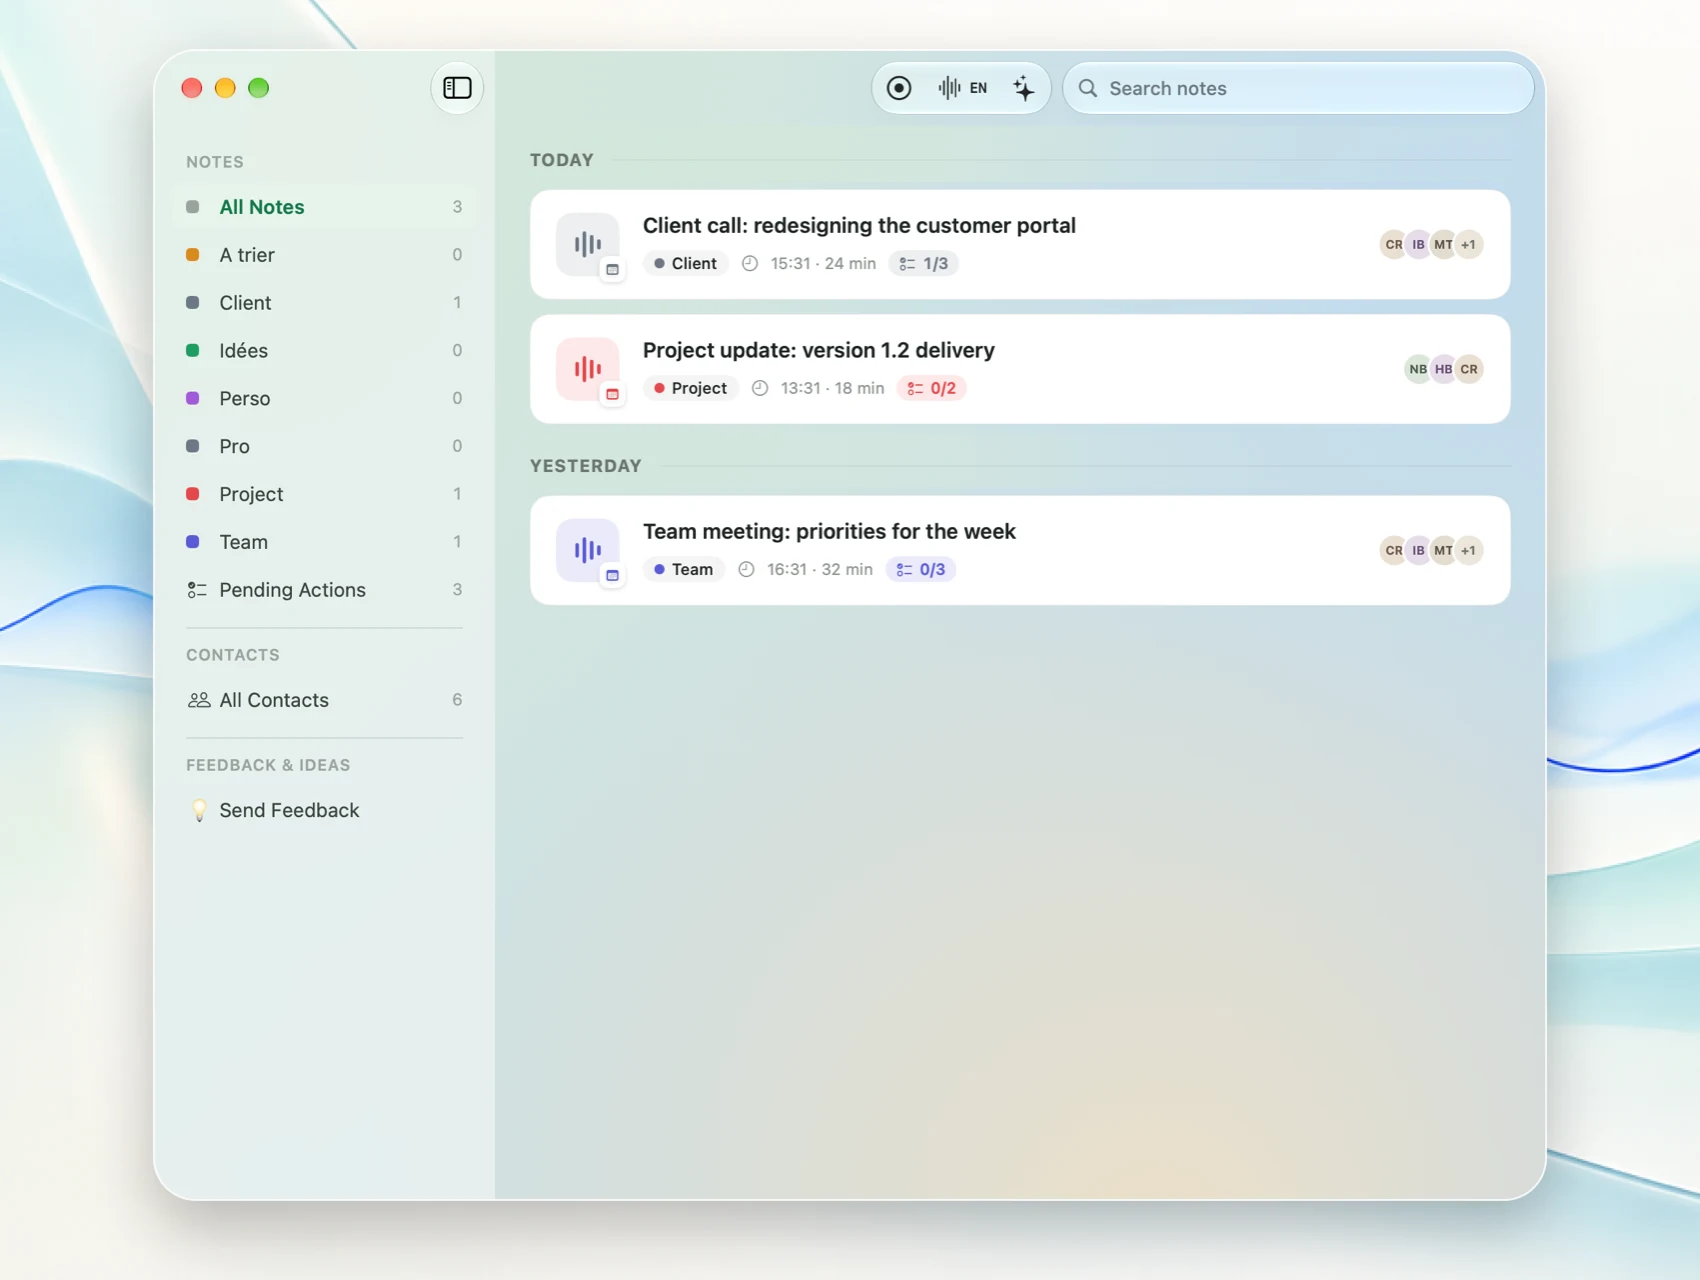
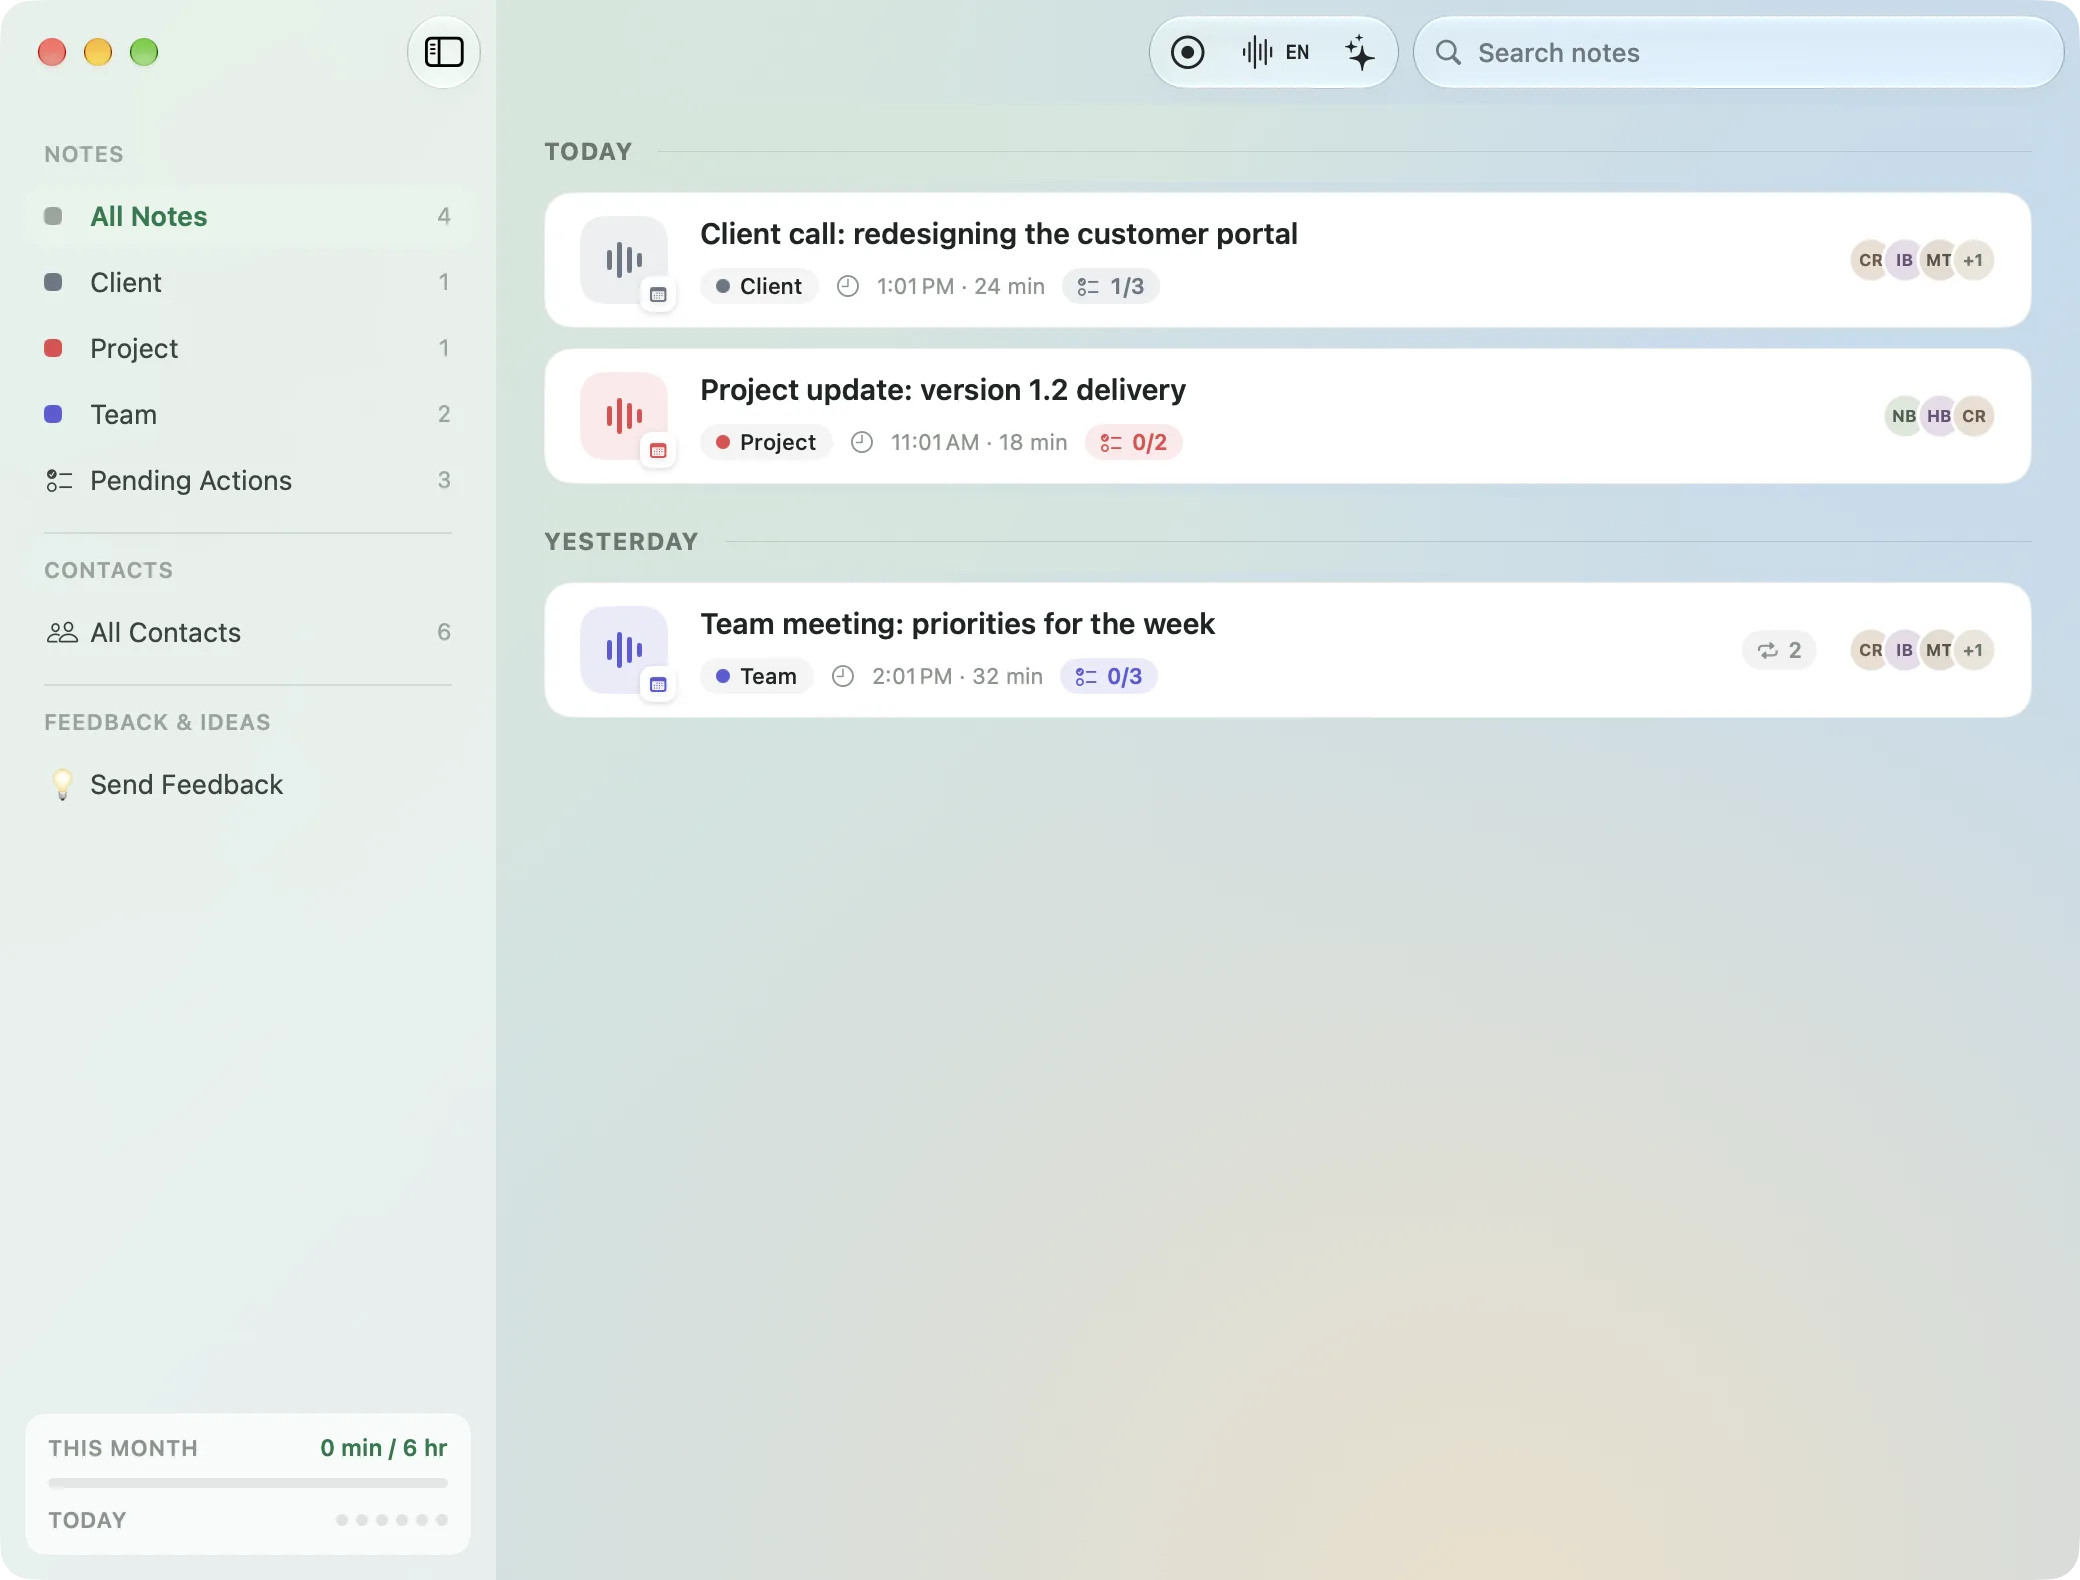
feat(site): refresh marketing visuals

diff --git a/voiceovya/index.html b/voiceovya/index.html
@@ -80,8 +80,11 @@ header{position:relative;z-index:1;background:rgba(244,248,246,.75);backdrop-fil
 .assistant-capture .ui-shot{margin:0 auto}
 .translation-capture{padding:72px 0;background:var(--bg-clear)}
 .translation-capture .capture-head{margin-top:0}
+.translation-capture .ui-shot{max-width:480px}
 .ai-actions-capture{padding:72px 0;background:#fff}
 .ai-actions-capture .capture-head{margin-top:0}
+.ai-actions-capture .ui-shot{max-width:756px}
+.calendar-capture{padding:72px 0;background:var(--accent-soft)}
 .sr-only{position:absolute!important;width:1px!important;height:1px!important;padding:0!important;margin:-1px!important;overflow:hidden!important;clip:rect(0,0,0,0)!important;white-space:nowrap!important;border:0!important}
 
 /* ---- Product journey ---- */
@@ -189,6 +192,7 @@ section{padding:72px 0}
 .mopt .mb{font-size:11px;font-weight:600;padding:3px 9px;border-radius:20px;flex:none}
 .mopt .mb.local{background:var(--accent-soft);color:var(--accent-deep)}
 .mopt .mb.online{background:rgba(0,0,0,.06);color:var(--text-medium)}
+.mopt .mb.experimental{background:#fff0d8;color:#a45d00}
 .pnote{margin-top:12px;font-size:12.5px;color:var(--text-medium)}
 
 /* ---- Contact band ---- */
@@ -330,7 +334,7 @@ footer a:hover{color:var(--text-dark)}
       <p data-i18n="capture.library.p">Classez vos notes, recherchez un échange et gardez les actions à suivre sous la main.</p>
     </div>
     <figure class="ui-shot">
-      <img src="assets/screenshots/ui/fr/library.webp?v=4" data-ui-shot="library" width="1700" height="1280" loading="eager" alt="Bibliothèque de réunions VoiceOvya" data-alt-fr="Bibliothèque de réunions VoiceOvya" data-alt-en="VoiceOvya meeting library">
+      <img src="assets/screenshots/ui/fr/library.webp?v=6" data-ui-shot="library" width="2080" height="1580" loading="eager" alt="Bibliothèque de réunions VoiceOvya" data-alt-fr="Bibliothèque de réunions VoiceOvya" data-alt-en="VoiceOvya meeting library">
     </figure>
   </div>
 </div>
@@ -412,7 +416,7 @@ footer a:hover{color:var(--text-dark)}
       <p data-i18n="capture.assistant.p">Échangez avec vos notes grâce à l’assistant IA. Pendant ou après la réunion, retrouvez une décision, une action ou une information sans parcourir toute la transcription.</p>
     </div>
     <figure class="ui-shot">
-      <img src="assets/screenshots/ui/fr/assistant.webp?v=4" data-ui-shot="assistant" width="2080" height="1280" loading="lazy" alt="Assistant IA VoiceOvya dans une réunion" data-alt-fr="Assistant IA VoiceOvya dans une réunion" data-alt-en="VoiceOvya AI assistant inside a meeting">
+      <img src="assets/screenshots/ui/fr/assistant.webp?v=6" data-ui-shot="assistant" width="2544" height="1580" loading="lazy" alt="Assistant IA VoiceOvya dans une réunion" data-alt-fr="Assistant IA VoiceOvya dans une réunion" data-alt-en="VoiceOvya AI assistant inside a meeting">
     </figure>
   </div>
 </section>
@@ -424,7 +428,7 @@ footer a:hover{color:var(--text-dark)}
       <p data-i18n="capture.translation.p">Écoutez dans une langue et suivez la traduction au fil de la conversation.</p>
     </div>
     <figure class="ui-shot">
-      <img src="assets/screenshots/ui/fr/translation.webp?v=4" data-ui-shot="translation" width="1880" height="1230" loading="lazy" alt="Traduction en temps réel dans VoiceOvya" data-alt-fr="Traduction en temps réel dans VoiceOvya" data-alt-en="Real-time translation in VoiceOvya">
+      <img src="assets/screenshots/ui/fr/translation.webp?v=6" data-ui-shot="translation" width="840" height="1040" loading="lazy" alt="Traduction en temps réel dans VoiceOvya" data-alt-fr="Traduction en temps réel dans VoiceOvya" data-alt-en="Real-time translation in VoiceOvya">
     </figure>
   </div>
 </section>
@@ -436,57 +440,16 @@ footer a:hover{color:var(--text-dark)}
       <p data-i18n="capture.actions.p">Créez vos actions IA (résumé, devis…) et accédez-y via l’assistant IA, ou générez automatiquement une carte dans le détail de la note.</p>
     </div>
     <figure class="ui-shot">
-      <img src="assets/screenshots/ui/fr/ai-actions.webp?v=4" data-ui-shot="ai-actions" width="1700" height="1270" loading="lazy" alt="Configuration des actions IA dans VoiceOvya" data-alt-fr="Configuration des actions IA dans VoiceOvya" data-alt-en="AI action configuration in VoiceOvya">
+      <img src="assets/screenshots/ui/fr/ai-actions.webp?v=6" data-ui-shot="ai-actions" width="1800" height="1340" loading="lazy" alt="Configuration des actions IA dans VoiceOvya" data-alt-fr="Configuration des actions IA dans VoiceOvya" data-alt-en="AI action configuration in VoiceOvya">
     </figure>
   </div>
 </section>
 
-<section class="story" id="calendar">
-  <div class="story-intro">
-    <span class="kicker" data-i18n="s3.k">Agenda</span>
-    <h2 data-i18n="s3.t">Démarrez au bon moment.</h2>
-    <p data-i18n="s3.p">VoiceOvya s’appuie sur votre agenda pour proposer l’enregistrement au début de la réunion, depuis une notification ou la barre des menus.</p>
-  </div>
+<section class="calendar-capture" id="calendar">
   <div class="wrap">
-    <div class="viz">
-      <div class="device plain">
-        <div class="menubar">
-          <span class="mi"><img src="assets/appicon-sm.png" alt=""><span data-i18n="s3.mb">Organisation vacances</span></span>
-          <span class="sp"></span>
-          <svg class="st" viewBox="0 0 24 24"><path d="M5 12.55a11 11 0 0 1 14.08 0M8.53 16.11a6 6 0 0 1 6.95 0M12 20h.01"/></svg>
-          <svg class="st" viewBox="0 0 24 24"><path d="M11 5L6 9H2v6h4l5 4zM15.54 8.46a5 5 0 0 1 0 7.07M19.07 4.93a10 10 0 0 1 0 14.14"/></svg>
-          <svg class="st" viewBox="0 0 24 24"><rect x="2" y="7" width="17" height="10" rx="2.5"/><path d="M22 11v2"/><rect x="4" y="9" width="10" height="6" rx="1" fill="currentColor" stroke="none"/></svg>
-          <span class="dim">12:04</span>
-        </div>
-        <div class="calrow">
-          <div class="mbmenu">
-            <div class="mmh" data-i18n="s3.mh">Prochaines réunions</div>
-            <div class="mmi hov"><div class="mmt"><b data-i18n="s3.m1">Organisation vacances</b><div class="mms">12:00 – 12:30</div></div><span class="mmr" data-i18n="s3.m1r">en cours</span></div>
-            <div class="mmi"><div class="mmt"><b data-i18n="s3.m2">Association AG</b><div class="mms">13:00 – 13:30</div></div><span class="mmr" data-i18n="s3.m2r">dans 51 min</span></div>
-            <div class="msep"></div>
-            <div class="mmi" data-i18n="s3.launch">Lancer un enregistrement</div>
-            <div class="msep"></div>
-            <div class="mmi" data-i18n="s3.open">Ouvrir VoiceOvya</div>
-            <div class="mmi" data-i18n="s3.prefs">Accéder aux préférences</div>
-            <div class="mmi" data-i18n="s3.quit">Quitter VoiceOvya</div>
-          </div>
-          <div class="notif">
-            <img class="nicon" src="assets/appicon-sm.png" alt="">
-            <div class="ntxt">
-              <div class="nt" data-i18n="s3.nt">Organisation vacances</div>
-              <div class="nd">16:00 – 16:30</div>
-            </div>
-            <button class="nbtn" data-i18n="s3.b1">Lancer l'enregistrement</button>
-          </div>
-        </div>
-      </div>
-    </div>
-    <div class="text">
-      <ul class="feats">
-        <li><svg viewBox="0 0 24 24"><path d="M5 13l4 4L19 7"/></svg><span data-i18n="s3.f1">Notification à l'ouverture de chaque réunion</span></li>
-        <li><svg viewBox="0 0 24 24"><path d="M5 13l4 4L19 7"/></svg><span data-i18n="s3.f2">Enregistrement rapide depuis la barre des menus</span></li>
-      </ul>
-    </div>
+    <figure class="ui-shot">
+      <img src="assets/screenshots/marketing/fr/agenda-start.webp?v=1" data-marketing-shot="agenda-start" width="2880" height="1800" loading="lazy" alt="VoiceOvya propose de démarrer l'enregistrement au début d'une réunion" data-alt-fr="VoiceOvya propose de démarrer l'enregistrement au début d'une réunion" data-alt-en="VoiceOvya prompts you to start recording when a meeting begins">
+    </figure>
   </div>
 </section>
 
@@ -504,7 +467,7 @@ footer a:hover{color:var(--text-dark)}
         <p data-i18n="mo.ep">VoiceOvya peut utiliser Apple Intelligence sans modèle supplémentaire à installer.</p>
         <div class="pviz">
           <div class="mopt sel"><svg class="check" viewBox="0 0 24 24"><path d="M5 13l4 4L19 7"/></svg><span class="mn">Apple Intelligence</span><span class="mb local" data-i18n="mo.builtin">Intégré macOS</span></div>
-          <div class="mopt"><svg class="check" viewBox="0 0 24 24"><path d="M5 13l4 4L19 7"/></svg><span class="mn">MLX</span><span class="mb local" data-i18n="mo.local">Local</span></div>
+          <div class="mopt"><svg class="check" viewBox="0 0 24 24"><path d="M5 13l4 4L19 7"/></svg><span class="mn">MLX</span><span class="mb experimental" data-i18n="mo.experimental">Expérimental</span></div>
           <div class="mopt"><svg class="check" viewBox="0 0 24 24"><path d="M5 13l4 4L19 7"/></svg><span class="mn">Claude</span><span class="mb online" data-i18n="mo.key">Votre clé API</span></div>
           <div class="mopt"><svg class="check" viewBox="0 0 24 24"><path d="M5 13l4 4L19 7"/></svg><span class="mn">ChatGPT</span><span class="mb online" data-i18n="mo.key">Votre clé API</span></div>
         </div>
@@ -789,6 +752,7 @@ en: {
   "mo.pp":"Connect a local model through Ollama, llama.cpp, or LM Studio. You choose what runs on your Mac.",
   "mo.builtin":"Built into macOS",
   "mo.local":"Local",
+  "mo.experimental":"Experimental",
   "mo.key":"Your API key",
   "mo.note":"Already using the OpenAI or Anthropic APIs? Add your own key.",
   "mo.pn":"Choose the tool and model suited to your needs.",
@@ -836,7 +800,8 @@ function setLang(l){
   document.querySelectorAll('[data-i18n-ph]').forEach(e=>{ e.placeholder=d[e.dataset.i18nPh] ?? I18N.en[e.dataset.i18nPh] ?? FR[e.dataset.i18nPh] ?? e.placeholder; });
   document.querySelectorAll('[data-alt-fr]').forEach(e=>{ e.alt = l === 'fr' ? e.dataset.altFr : e.dataset.altEn; });
   const captureLocale = l === 'fr' ? 'fr' : 'en';
-  document.querySelectorAll('[data-ui-shot]').forEach(e=>{ e.src = `assets/screenshots/ui/${captureLocale}/${e.dataset.uiShot}.webp?v=4`; });
+  document.querySelectorAll('[data-ui-shot]').forEach(e=>{ e.src = `assets/screenshots/ui/${captureLocale}/${e.dataset.uiShot}.webp?v=6`; });
+  document.querySelectorAll('[data-marketing-shot]').forEach(e=>{ e.src = `assets/screenshots/marketing/${captureLocale}/${e.dataset.marketingShot}.webp?v=1`; });
   document.documentElement.lang = l;
   document.title = l === 'fr' ? 'VoiceOvya · Gardez le fil de vos réunions' : 'VoiceOvya · Never lose the thread of a meeting';
   document.querySelector('meta[name="description"]').content = l === 'fr'
